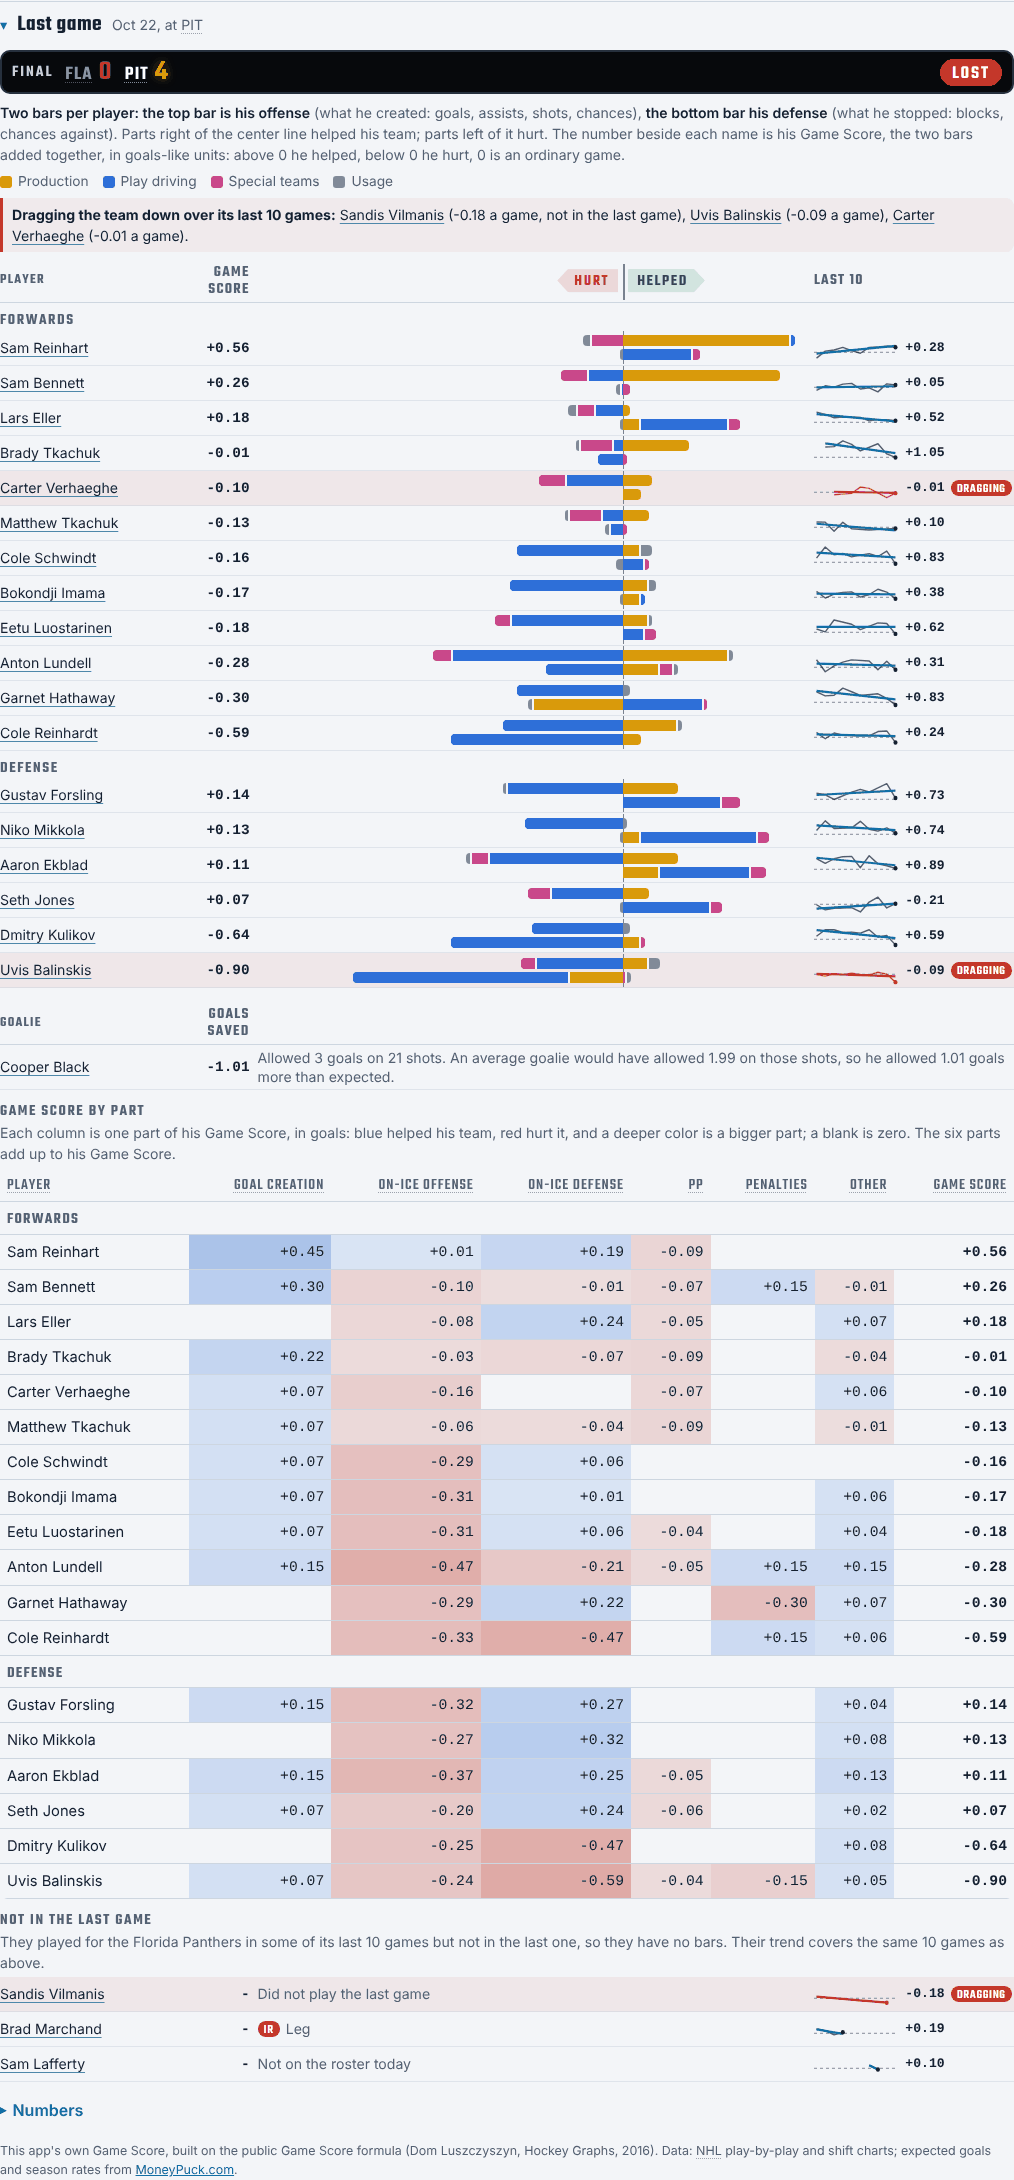
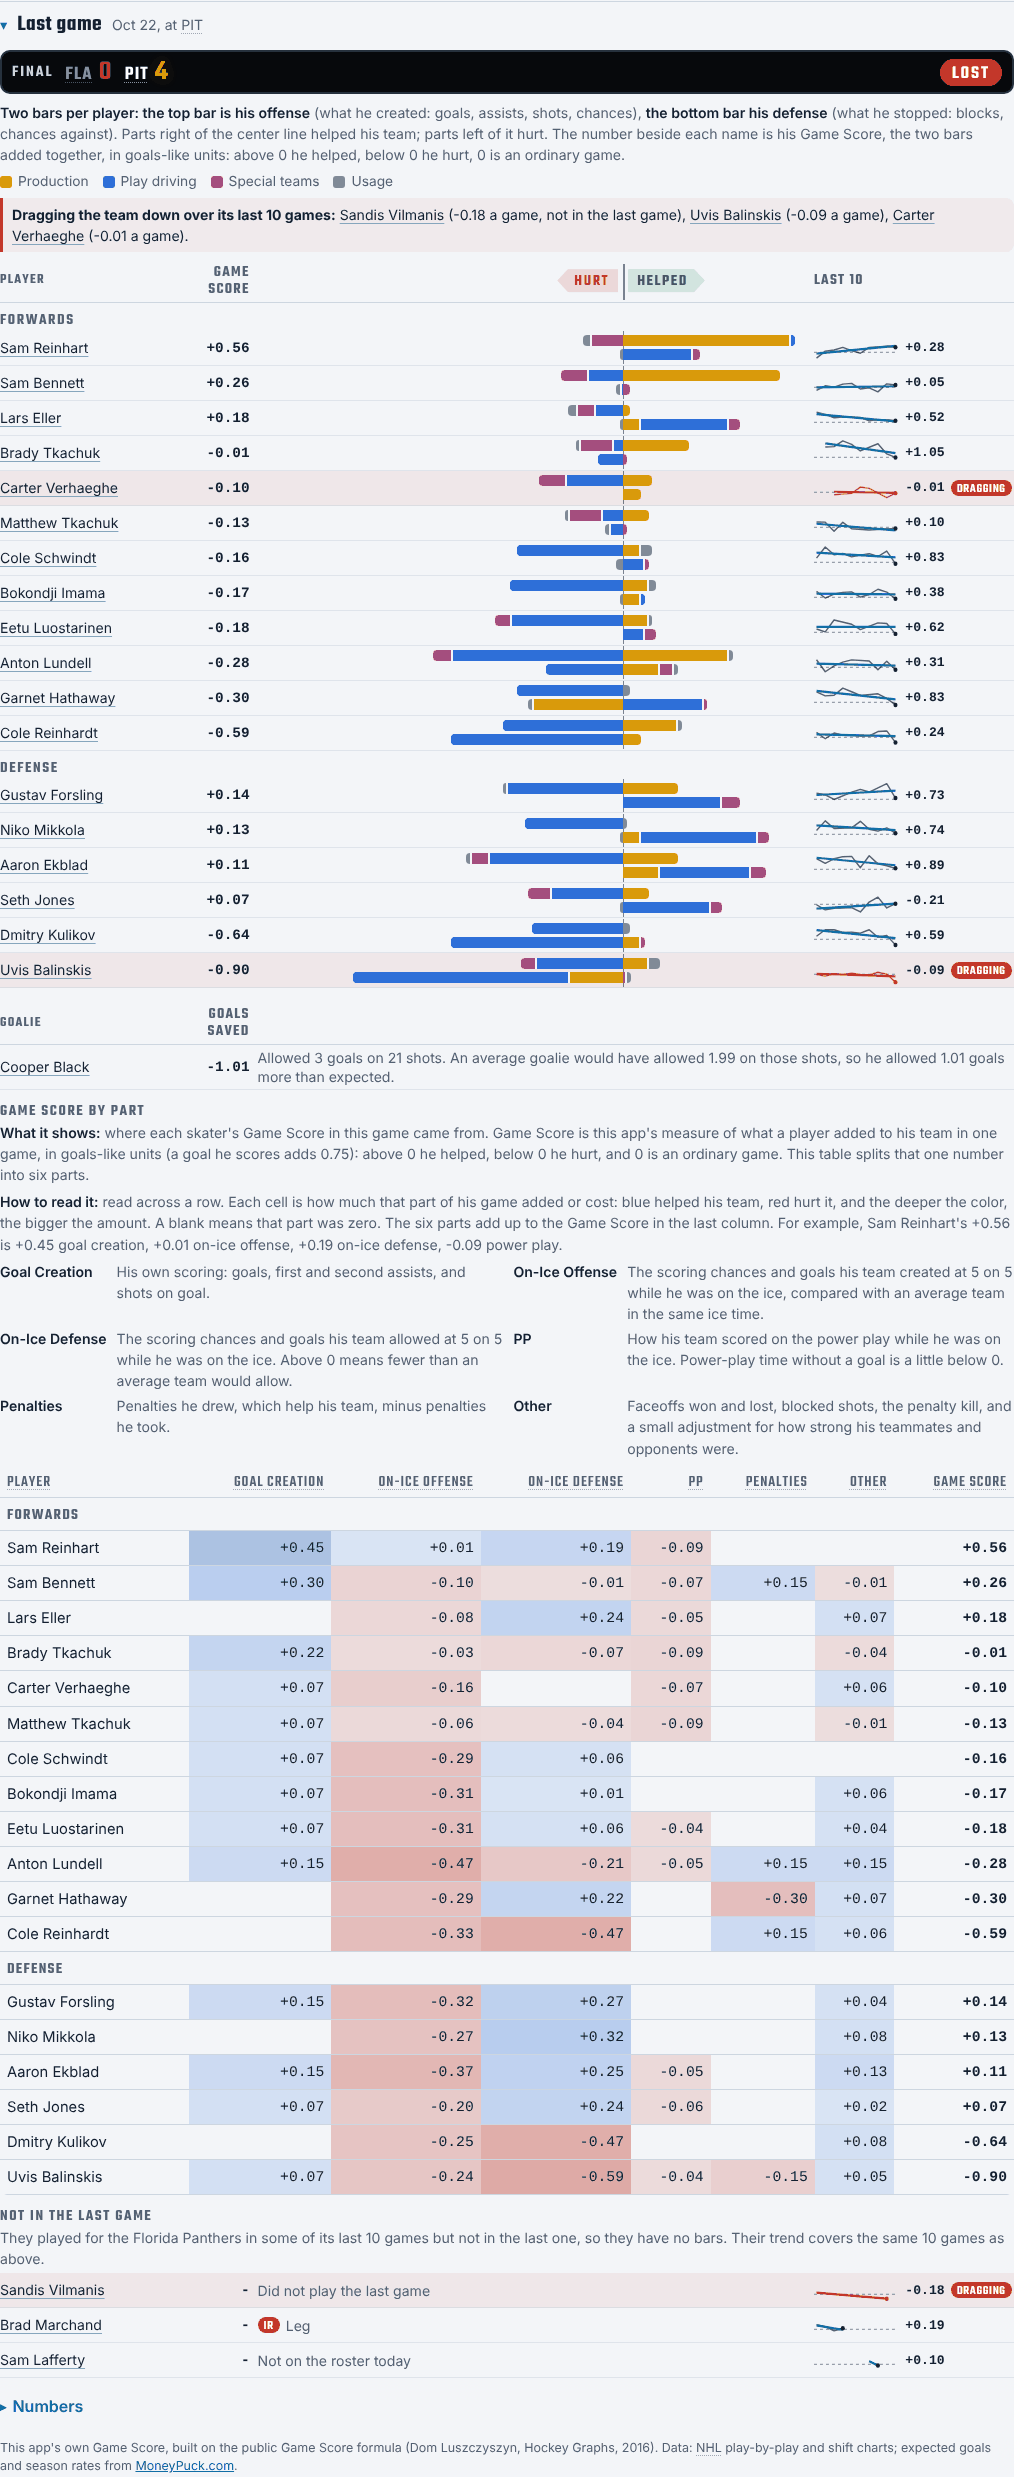
1.21.1: a plain explanation for Game Score by part
John: "a clear explanation needs to be also included so users know
exactly what it is or does" (the one-line note under "Game Score by
part" said only how the colors work).

- Above the table: "What it shows" (where each skater's Game Score in
  this game came from; what Game Score is, in goals-like units, with a
  goal worth 0.75; above 0 helped, below 0 hurt, 0 an ordinary game),
  "How to read it" (read across a row, what blue, red, deeper color and
  a blank mean, the six parts add up to the last column) with a worked
  example built from the team's own top row, and each column in plain
  words (two per line on wide screens). The headings keep their exact
  weights on hover or tap.
- The browser check now requires all of it and failed on 1.21.0.
- The last-game README picture is regenerated. No data change.

Claude-Session: https://claude.ai/code/session_01XqpNinG5Pf12J6dGNoaPvS

Changed region(s): [[0.0, 0.0, 1.0, 0.9982]]

diff --git a/app/js/app.js b/app/js/app.js
@@ -4,7 +4,7 @@
    stats window) stay in this browser (localStorage). */
 (function () {
   "use strict";
-  const APP_VERSION = "1.21.0";
+  const APP_VERSION = "1.21.1";
   const REPO = "https://github.com/JBrady0850/nhl-daily-analytics";
   const PUBLIC_URL = "https://jbrady0850.github.io/nhl-daily-analytics/";
   const KEY = "nda:v1";
@@ -752,10 +752,27 @@
   // add up to it, blue where the part helped and red where it hurt, deeper for bigger
   // values, blank at zero; forwards, then defense, as in the chart above
   const BOX_COLS = [["gc", "Goal Creation"], ["on_o", "On-Ice Offense"], ["on_d", "On-Ice Defense"], ["pp", "PP"], ["pen", "Penalties"], ["other", "Other"]];
+  // 1.21.1 (John: "a clear explanation needs to be also included so users know exactly
+  // what it is or does"): what the table is, how to read a row, a worked example from the
+  // team's own top row, and each column in plain words (the headings keep the exact weights)
+  const BOX_PLAIN = {
+    gc: "His own scoring: goals, first and second assists, and shots on goal.",
+    on_o: "The scoring chances and goals his team created at 5 on 5 while he was on the ice, compared with an average team in the same ice time.",
+    on_d: "The scoring chances and goals his team allowed at 5 on 5 while he was on the ice. Above 0 means fewer than an average team would allow.",
+    pp: "How his team scored on the power play while he was on the ice. Power-play time without a goal is a little below 0.",
+    pen: "Penalties he drew, which help his team, minus penalties he took.",
+    other: "Faceoffs won and lost, blocked shots, the penalty kill, and a small adjustment for how strong his teammates and opponents were."
+  };
   function boxCell(v) {
     if (typeof v !== "number" || Math.abs(v) < 0.005) return `<td class="n bx"></td>`;
     const a = Math.round(12 + 28 * Math.min(1, Math.abs(v) / 0.5));       // tint 12% to 40%, full at half a goal
     return `<td class="n bx ${v > 0 ? "pos" : "neg"}" style="--a:${a}%">${signed(v)}</td>`;
+  }
+  function boxExample(sk) {
+    const p = sk.slice().sort((a, b) => b.gs - a.gs)[0];
+    if (!p) return "";
+    const parts = BOX_COLS.filter(([k]) => Math.abs(p.cols[k]) >= 0.005).map(([k, n]) => `${signed(p.cols[k])} ${n.replace("PP", "power play").toLowerCase()}`);
+    return parts.length ? ` <span class="gs-box-ex">For example, ${esc(p.name)}'s ${signed(p.gs)} is ${parts.join(", ")}.</span>` : "";
   }
   function boxTable(t) {
     const sk = (t.skaters || []).filter(p => p.cols);
@@ -764,7 +781,11 @@
     const grp = (lab, rows) => rows.length ? `<tr class="grp"><td colspan="${BOX_COLS.length + 2}">${lab}</td></tr>` + rows.map(row).join("") : "";
     const hd = thT("Player", "The player.") + BOX_COLS.map(([k, n]) => thT(n, (TIPS.box || {})[n] || n, "n")).join("") + thT("Game Score", TIPS.gs["Game Score"], "n");
     return `<div class="gs-boxwrap"><p class="gs-grp">Game Score by part</p>
-      <p class="small muted gs-box-how">Each column is one part of his Game Score, in goals: blue helped his team, red hurt it, and a deeper color is a bigger part; a blank is zero. The six parts add up to his Game Score.</p>
+      <div class="small gs-box-how">
+        <p><b>What it shows:</b> where each skater's Game Score in this game came from. Game Score is this app's measure of what a player added to his team in one game, in goals-like units (a goal he scores adds 0.75): above 0 he helped, below 0 he hurt, and 0 is an ordinary game. This table splits that one number into six parts.</p>
+        <p><b>How to read it:</b> read across a row. Each cell is how much that part of his game added or cost: blue helped his team, red hurt it, and the deeper the color, the bigger the amount. A blank means that part was zero. The six parts add up to the Game Score in the last column.${boxExample(sk)}</p>
+        <dl class="gs-box-key">${BOX_COLS.map(([k, n]) => `<dt>${esc(n)}</dt><dd>${esc(BOX_PLAIN[k])}</dd>`).join("")}</dl>
+      </div>
       ${tbl(hd, grp("Forwards", sk.filter(p => p.pos !== "D")) + grp("Defense", sk.filter(p => p.pos === "D")), "gs-box")}</div>`;
   }
   // the goalie is measured in goals saved, not Game Score, so he gets a plain sentence

diff --git a/app/css/style.css b/app/css/style.css
@@ -292,7 +292,12 @@ table.standings tr.cut td { border-top: 3px solid var(--redline); }
 /* 1.21.0: the Game Score by part table; blue helped, red hurt, tint 12% to 40% by size */
 .gs-boxwrap { margin-top: 14px; }
 .gs-boxwrap .gs-grp { margin-top: 0; }
-.gs-box-how { margin: 0 0 6px; }
+.gs-box-how { margin: 0 0 8px; color: var(--muted); }
+.gs-box-how p { margin: 0 0 6px; } .gs-box-how b, .gs-box-how dt { color: var(--ink); font-weight: 600; }
+/* 1.21.1: the columns in plain words, two per line on wide screens */
+.gs-box-key { display: grid; grid-template-columns: max-content minmax(0, 1fr) max-content minmax(0, 1fr); gap: 4px 10px; margin: 0; }
+.gs-box-key dd { margin: 0; }
+@media (max-width: 900px) { .gs-box-key { grid-template-columns: max-content minmax(0, 1fr); } }
 table.gs-box td.bx { font-variant-numeric: tabular-nums; }
 table.gs-box td.bx.pos { background: color-mix(in srgb, var(--gs-drive) var(--a), var(--panel)); }
 table.gs-box td.bx.neg { background: color-mix(in srgb, var(--bad) var(--a), var(--panel)); }

diff --git a/app/sw.js b/app/sw.js
@@ -1,7 +1,7 @@
 /* Offline support for the app shell. Files come from the network first, so a
    connected device always gets the newest version and the newest data; the cached
    copy is used only when offline. Bump VERSION when the file list changes. */
-const VERSION = "nda-v1.21.0"; // standalone: only caches named nda-* are ever deleted
+const VERSION = "nda-v1.21.1"; // standalone: only caches named nda-* are ever deleted
 const FILES = ["./", "index.html", "css/style.css", "js/glossary.js", "js/app.js", "data/latest.js",
   "manifest.webmanifest", "icon.svg", "icon-180.png", "icon-192.png", "icon-512.png", "icon-maskable-512.png", "qr-app.png"];
 self.addEventListener("install", e => e.waitUntil(caches.open(VERSION).then(c => c.addAll(FILES)).then(() => self.skipWaiting())));

diff --git a/tests/ui_smoke.py b/tests/ui_smoke.py
@@ -510,7 +510,11 @@ BOX_JS = """(ab) => {
     rows: [...t.querySelectorAll('tbody tr:not(.grp)')].map(r => [...r.children].map(td => td.textContent.trim())),
     classes: [...t.querySelectorAll('tbody tr:not(.grp)')].map(r => [...r.querySelectorAll('td.bx')].map(td => td.classList.contains('pos') ? 'pos' : td.classList.contains('neg') ? 'neg' : '')),
     worst: cells.length ? Math.min(...cells.map(ratio)) : null,
-    title: (c.querySelector('.gs-boxwrap > .gs-grp') || {textContent: ''}).textContent.trim()};
+    title: (c.querySelector('.gs-boxwrap > .gs-grp') || {textContent: ''}).textContent.trim(),
+    // 1.21.1: the explanation above the table
+    how: [...c.querySelectorAll('.gs-boxwrap .gs-box-how > p')].map(p => p.textContent.replace(/\\s+/g, ' ').trim()),
+    key: [...c.querySelectorAll('.gs-boxwrap .gs-box-key dt')].map(d => [d.textContent.trim(), (d.nextElementSibling && d.nextElementSibling.tagName === 'DD') ? d.nextElementSibling.textContent.trim().length > 20 : false]),
+    ex: (c.querySelector('.gs-boxwrap .gs-box-ex') || {textContent: ''}).textContent.trim()};
 }"""
 
 
@@ -540,6 +544,18 @@ def check_box_table(pg, sample, ab):
         out += [f"box table {ab} ({scheme}) {k}: {str(got.get(k))[:160]} (want {str(v)[:160]})" for k, v in want.items() if got.get(k) != v]
         if got.get("worst") is None or got["worst"] < 4.5:
             out.append(f"box table {ab} ({scheme}): a colored cell's text reads at {got.get('worst')} to 1 (want 4.5)")
+        # 1.21.1 (John: "a clear explanation needs to be also included so users know exactly
+        # what it is or does"): what it shows, how to read it, an example, every column in words
+        names = ["Goal Creation", "On-Ice Offense", "On-Ice Defense", "PP", "Penalties", "Other"]
+        top = max(sk, key=lambda p: p["gs"])
+        ex = "For example, {}'s {} is {}.".format(top["name"], sign(top["gs"]), ", ".join(
+            f"{sign(top['cols'][k])} {n.replace('PP', 'power play').lower()}" for k, n in zip(keys, names) if abs(top["cols"][k]) >= 0.005))
+        how = got.get("how") or []
+        if len(how) != 2 or not how[0].startswith("What it shows: where each skater's Game Score") \
+                or not how[1].startswith("How to read it: read across a row.") or not how[1].endswith(ex):
+            out.append(f"box table {ab} ({scheme}): explanation {[h[:70] for h in how]} (want what it shows, how to read it, ending {ex!r})")
+        if got.get("key") != [[n, True] for n in names] or got.get("ex") != ex:
+            out.append(f"box table {ab} ({scheme}): column key {got.get('key')} or example {got.get('ex')!r}")
     pg.emulate_media(color_scheme="light")
     bad = [p["name"] for p in sk if abs(sum(p["cols"][k] for k in keys) - p["gs"]) > 0.011]
     if bad:
